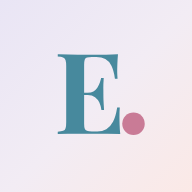
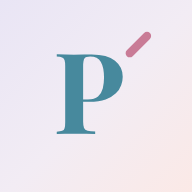
Renombrar la app a Pipí Cucú
"Pipí cucú" es la expresión argentina para todo en orden, impecable, que es
justamente el estado en el que la app busca dejar la agenda. El eslogan "Tu
agenda, pipí cucú" queda en el título, el manifest y la pantalla de bienvenida.

La cadena de migración de datos pasa a tener dos nombres anteriores. El orden
importa: se leen de la más reciente a la más vieja, porque quien pasó por varias
versiones tiene datos en varias claves y los buenos son los de la última que
usó. Un test cubre exactamente ese caso, además del rescate desde cada nombre
por separado. Las claves viejas siguen sin borrarse, como respaldo.

En identificadores técnicos el nombre va sin tildes: el paquete es pipi-cucu, el
archivo de respaldo pipi-cucu-FECHA.json y la cabecera de los .ics Pipi Cucu,
porque esos lugares tienen que ser ASCII. Las tildes quedan donde se leen.

El ícono usa la tilde de "Pipí" como acento rosa sobre la P en Playfair. La
primera versión tenía la tilde tan grande que cruzaba la panza de la letra y se
leía como un tachón; quedó más chica y por encima de la altura de mayúscula.

La marca del encabezado vuelve a ser de dos tonos, "Pipí" en ciruela y "Cucú" en
turquesa.

139 tests. Verificado en el navegador sembrando la clave del nombre anterior
antes de que la app arranque: los pacientes aparecen, un cambio real se escribe
bajo pipicucu:data y la clave previa queda intacta.

Claude-Session: https://claude.ai/code/session_01C9zdYzzWhbrAokoA68W1So

diff --git a/src/lib/storage.migration.test.ts b/src/lib/storage.migration.test.ts
@@ -1,7 +1,8 @@
 import { beforeEach, describe, expect, it } from 'vitest';
 import { loadData, saveData, STORAGE_KEY } from './storage';
 
-const LEGACY_KEY = 'psicofinance:data';
+const KEY_V1 = 'psicofinance:data';
+const KEY_V2 = 'encuadre:data';
 
 /** localStorage mínimo en memoria: los tests corren en Node, sin navegador. */
 function installFakeStorage() {
@@ -31,7 +32,7 @@ describe('cambio de nombre de la app', () => {
   });
 
   it('rescata los datos guardados bajo el nombre viejo', () => {
-    store.set(LEGACY_KEY, datosViejos);
+    store.set(KEY_V1, datosViejos);
     const data = loadData();
     expect(data.patients).toHaveLength(1);
     expect(data.patients[0]!.name).toBe('Paciente de antes');
@@ -41,20 +42,33 @@ describe('cambio de nombre de la app', () => {
   });
 
   it('el primer guardado los pasa a la clave nueva', () => {
-    store.set(LEGACY_KEY, datosViejos);
+    store.set(KEY_V1, datosViejos);
     saveData(loadData());
     expect(store.has(STORAGE_KEY)).toBe(true);
     expect(JSON.parse(store.get(STORAGE_KEY)!).patients).toHaveLength(1);
   });
 
   it('no borra la clave vieja: queda como respaldo', () => {
-    store.set(LEGACY_KEY, datosViejos);
+    store.set(KEY_V1, datosViejos);
     saveData(loadData());
-    expect(store.get(LEGACY_KEY)).toBe(datosViejos);
+    expect(store.get(KEY_V1)).toBe(datosViejos);
   });
 
-  it('la clave nueva tiene prioridad sobre la vieja', () => {
-    store.set(LEGACY_KEY, datosViejos);
+  it('rescata los datos del segundo nombre que tuvo la app', () => {
+    store.set(KEY_V2, datosViejos);
+    expect(loadData().patients[0]!.name).toBe('Paciente de antes');
+  });
+
+  it('entre dos nombres viejos gana el más reciente', () => {
+    // Quien pasó por las dos versiones tiene datos en ambas claves; los buenos
+    // son los de la última que usó, no los del nombre original.
+    store.set(KEY_V1, datosViejos);
+    store.set(KEY_V2, JSON.stringify({ version: 1, patients: [{ id: 'p2', name: 'De la versión intermedia' }] }));
+    expect(loadData().patients[0]!.name).toBe('De la versión intermedia');
+  });
+
+  it('la clave nueva tiene prioridad sobre las viejas', () => {
+    store.set(KEY_V1, datosViejos);
     store.set(STORAGE_KEY, JSON.stringify({ version: 1, patients: [{ id: 'p2', name: 'Más reciente' }] }));
     expect(loadData().patients[0]!.name).toBe('Más reciente');
   });
@@ -64,7 +78,7 @@ describe('cambio de nombre de la app', () => {
   });
 
   it('datos viejos corruptos no rompen el arranque', () => {
-    store.set(LEGACY_KEY, '{roto');
+    store.set(KEY_V1, '{roto');
     expect(loadData().patients).toHaveLength(0);
   });
 });

diff --git a/src/lib/storage.ts b/src/lib/storage.ts
@@ -2,17 +2,21 @@ import type { AppData, Frequency, Patient, PatientKind, Payment, Session, Settin
 import { PATIENT_COLORS } from './palette';
 import { isValidISODate, isValidTime } from './dates';
 
-export const STORAGE_KEY = 'encuadre:data';
+export const STORAGE_KEY = 'pipicucu:data';
 
 /**
- * Claves que usó la app antes de llamarse Encuadre.
+ * Claves que usó la app con sus nombres anteriores, de la más reciente a la más
+ * vieja.
  *
  * Renombrar la app no puede borrarle los datos a quien ya la venía usando: si
- * no aparece nada bajo la clave actual, se lee de las viejas. La clave vieja no
- * se borra —queda como respaldo— porque a partir del primer guardado la app
- * escribe siempre en la nueva.
+ * no aparece nada bajo la clave actual, se leen las anteriores en este orden.
+ * Importa que vaya de nueva a vieja: alguien que pasó por las dos versiones
+ * tiene datos en ambas, y los de la más reciente son los buenos.
+ *
+ * Las claves viejas no se borran —quedan como respaldo— porque a partir del
+ * primer guardado la app escribe siempre en la nueva.
  */
-const LEGACY_KEYS = ['psicofinance:data'] as const;
+const LEGACY_KEYS = ['encuadre:data', 'psicofinance:data'] as const;
 export const SCHEMA_VERSION = 1;
 
 export const DEFAULT_SETTINGS: Settings = {

diff --git a/index.html b/index.html
@@ -3,7 +3,7 @@
   <head>
     <meta charset="UTF-8" />
     <meta name="viewport" content="width=device-width, initial-scale=1.0" />
-    <meta name="description" content="Agenda, pacientes y honorarios para consultorio psicologico" />
+    <meta name="description" content="Tu agenda, pipi cucu. Pacientes, sesiones y honorarios para consultorio psicologico." />
     <meta name="theme-color" content="#eef2f7" />
     <link rel="icon" href="/favicon-48.png" sizes="48x48" />
     <!-- iOS no lee el manifest: necesita sus propias etiquetas para
@@ -11,9 +11,9 @@
     <link rel="apple-touch-icon" href="/apple-touch-icon.png" />
     <meta name="apple-mobile-web-app-capable" content="yes" />
     <meta name="apple-mobile-web-app-status-bar-style" content="default" />
-    <meta name="apple-mobile-web-app-title" content="Encuadre" />
+    <meta name="apple-mobile-web-app-title" content="Pipí Cucú" />
     <meta name="mobile-web-app-capable" content="yes" />
-    <title>Encuadre</title>
+    <title>Pipí Cucú — tu agenda, pipí cucú</title>
   </head>
   <body>
     <div id="root"></div>

diff --git a/src/pages/Settings.tsx b/src/pages/Settings.tsx
@@ -19,7 +19,7 @@ export function SettingsPage() {
     const url = URL.createObjectURL(blob);
     const a = document.createElement('a');
     a.href = url;
-    a.download = `encuadre-${today()}.json`;
+    a.download = `pipi-cucu-${today()}.json`;
     a.click();
     URL.revokeObjectURL(url);
   }
@@ -35,7 +35,7 @@ export function SettingsPage() {
       dispatch({ type: 'data/replace', payload: parsed });
       setMessage({ text: 'Datos importados correctamente.', ok: true });
     } catch {
-      setMessage({ text: 'No se pudo leer el archivo. ¿Es una copia de Encuadre?', ok: false });
+      setMessage({ text: 'No se pudo leer el archivo. ¿Es una copia de Pipí Cucú?', ok: false });
     } finally {
       if (fileRef.current) fileRef.current.value = '';
     }
@@ -137,6 +137,10 @@ export function SettingsPage() {
           {data.patients.length} paciente(s) · {data.sessions.length} sesión(es) · {data.payments.length} pago(s)
         </p>
       </Card>
+
+      <p className="app-footer">
+        Pipí Cucú · tu agenda, pipí cucú
+      </p>
     </>
   );
 }

diff --git a/vite.config.ts b/vite.config.ts
@@ -11,9 +11,9 @@ export default defineConfig({
       registerType: 'autoUpdate',
       includeAssets: ['apple-touch-icon.png', 'favicon-48.png', 'fonts/*.woff2'],
       manifest: {
-        name: 'Encuadre — agenda de pacientes',
-        short_name: 'Encuadre',
-        description: 'Agenda, pacientes y honorarios para consultorio psicológico.',
+        name: 'Pipí Cucú — tu agenda, pipí cucú',
+        short_name: 'Pipí Cucú',
+        description: 'Tu agenda, pipí cucú. Pacientes, sesiones y honorarios para consultorio psicológico.',
         lang: 'es',
         dir: 'ltr',
         start_url: '/',

diff --git a/src/lib/calendar.ts b/src/lib/calendar.ts
@@ -60,10 +60,10 @@ export function sessionToICS(session: Session, options: ICSOptions): string {
   const lines = [
     'BEGIN:VCALENDAR',
     'VERSION:2.0',
-    'PRODID:-//Encuadre//ES',
+    'PRODID:-//Pipi Cucu//ES',
     'CALSCALE:GREGORIAN',
     'BEGIN:VEVENT',
-    `UID:${session.id}@encuadre`,
+    `UID:${session.id}@pipicucu`,
     `DTSTAMP:${toICSStamp(now)}`,
     `DTSTART:${toICSStamp(startDate)}`,
     `DTEND:${toICSStamp(endDate)}`,

diff --git a/src/pages/Dashboard.tsx b/src/pages/Dashboard.tsx
@@ -39,7 +39,7 @@ export function DashboardPage({ onGo }: { onGo: (page: 'agenda' | 'finanzas' | '
         </div>
         <Card>
           <Empty>
-            <strong>Bienvenida a Encuadre.</strong>
+            <strong>Tu agenda, pipí cucú.</strong>
             <br />
             Para empezar, cargá tu primer paciente; después vas a poder agendar sesiones y registrar cobros.
             <br />

diff --git a/src/App.tsx b/src/App.tsx
@@ -66,7 +66,7 @@ export default function App() {
       <div className="app">
         <header className="topbar">
           <span className="brand">
-            Encuadre<em>.</em>
+            Pipí <em>Cucú</em>
           </span>
           <nav className="nav">
             {NAV.map((item) => (

diff --git a/src/styles.css b/src/styles.css
@@ -757,3 +757,12 @@ a.btn {
 @media (max-width: 780px) {
   .mascot-bubble { max-width: 170px; }
 }
+
+/* Firma al pie de Ajustes. */
+.app-footer {
+  text-align: center;
+  color: var(--muted);
+  font-size: 0.84rem;
+  margin: 26px 0 0;
+  font-family: var(--serif);
+}

diff --git a/src/types.ts b/src/types.ts
@@ -1,5 +1,5 @@
 /**
- * Modelo de datos de Encuadre.
+ * Modelo de datos de Pipí Cucú.
  *
  * Dos decisiones de diseño que atraviesan todo el modelo:
  *

diff --git a/README.md b/README.md
@@ -98,9 +98,11 @@ el 0 de larga distancia y el 15 de celular (`src/lib/contact.ts`).
 **Borrar un paciente arrastra sus sesiones y pagos.** Dejarlos sueltos produciría ingresos
 fantasma en los reportes, imposibles de rastrear.
 
-**Renombrar la app no puede borrar datos.** Los datos guardados cuando se llamaba PsicoFinance se
-leen igual: si no hay nada bajo la clave actual, se buscan las anteriores, y la vieja queda sin
-borrar como respaldo (`src/lib/storage.ts`).
+**Renombrar la app no puede borrar datos.** La app tuvo otros nombres antes, y los datos guardados
+bajo esos nombres se leen igual: si no hay nada bajo la clave actual se buscan las anteriores, de la
+más reciente a la más vieja. Ese orden importa — quien pasó por varias versiones tiene datos en
+varias claves, y los buenos son los de la última que usó. Las claves viejas no se borran, quedan
+como respaldo (`src/lib/storage.ts`).
 
 **Al cerrar la pestaña solo se guarda si hay cambios propios sin escribir.** Sin esa condición,
 una pestaña que nunca tocó nada igual escribiría su copia al cerrarse y pisaría lo que guardó
@@ -155,7 +157,7 @@ borra el historial**, así que conviene exportar una copia desde Ajustes cada ta
 ## Desarrollo
 
 ```bash
-npm test          # 137 tests unitarios
+npm test          # 139 tests unitarios
 npm run typecheck # TypeScript en modo strict
 npm run build
 ```
